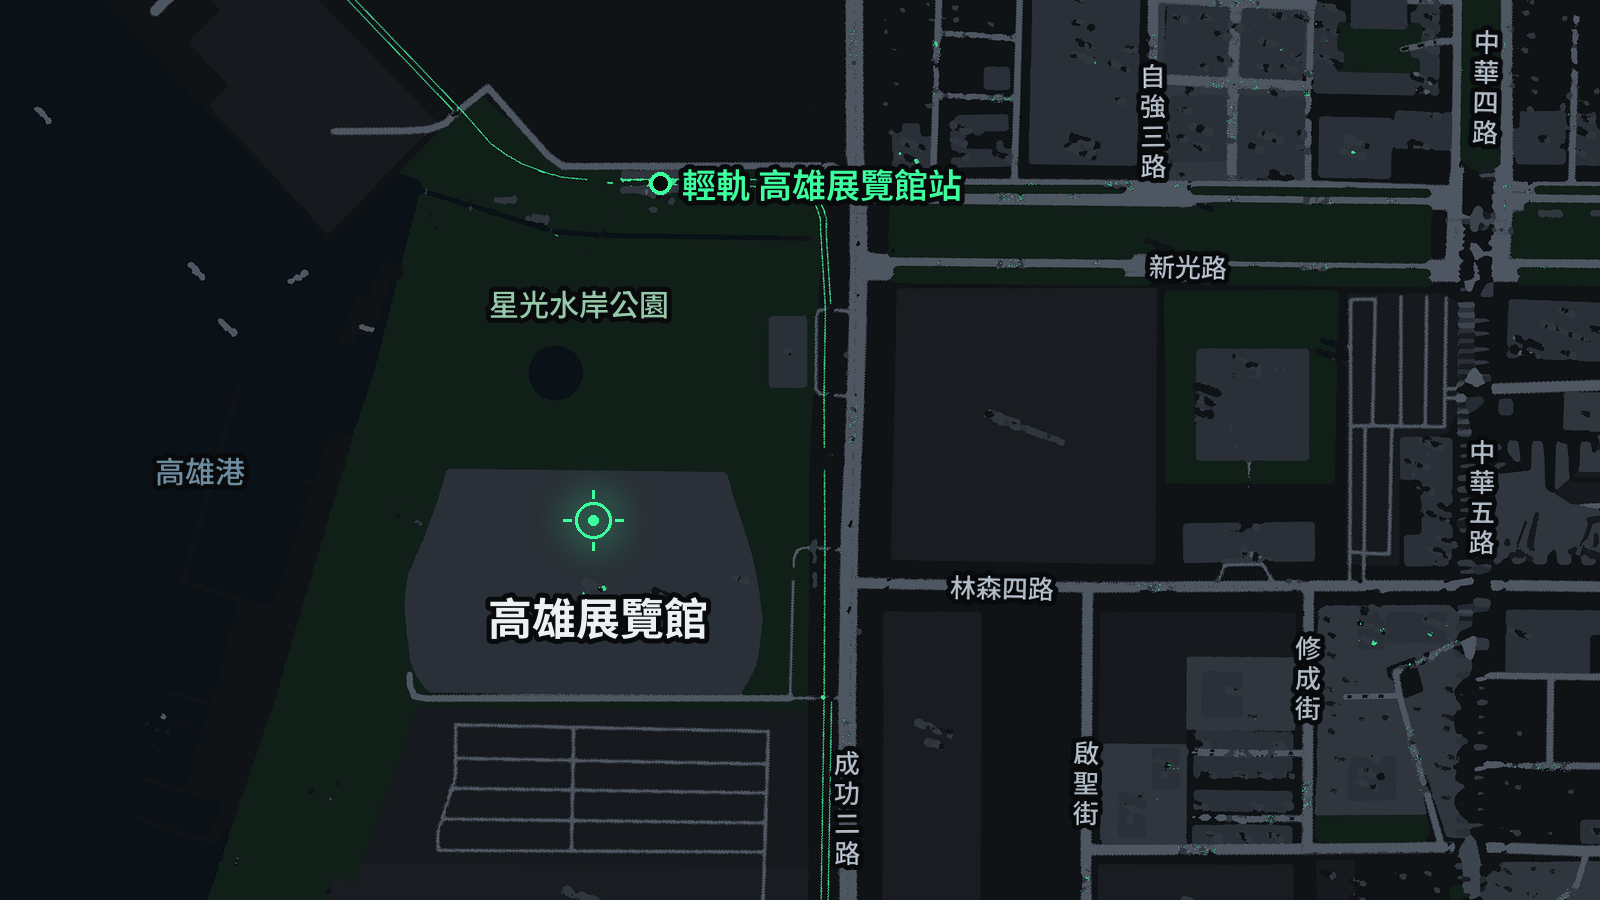
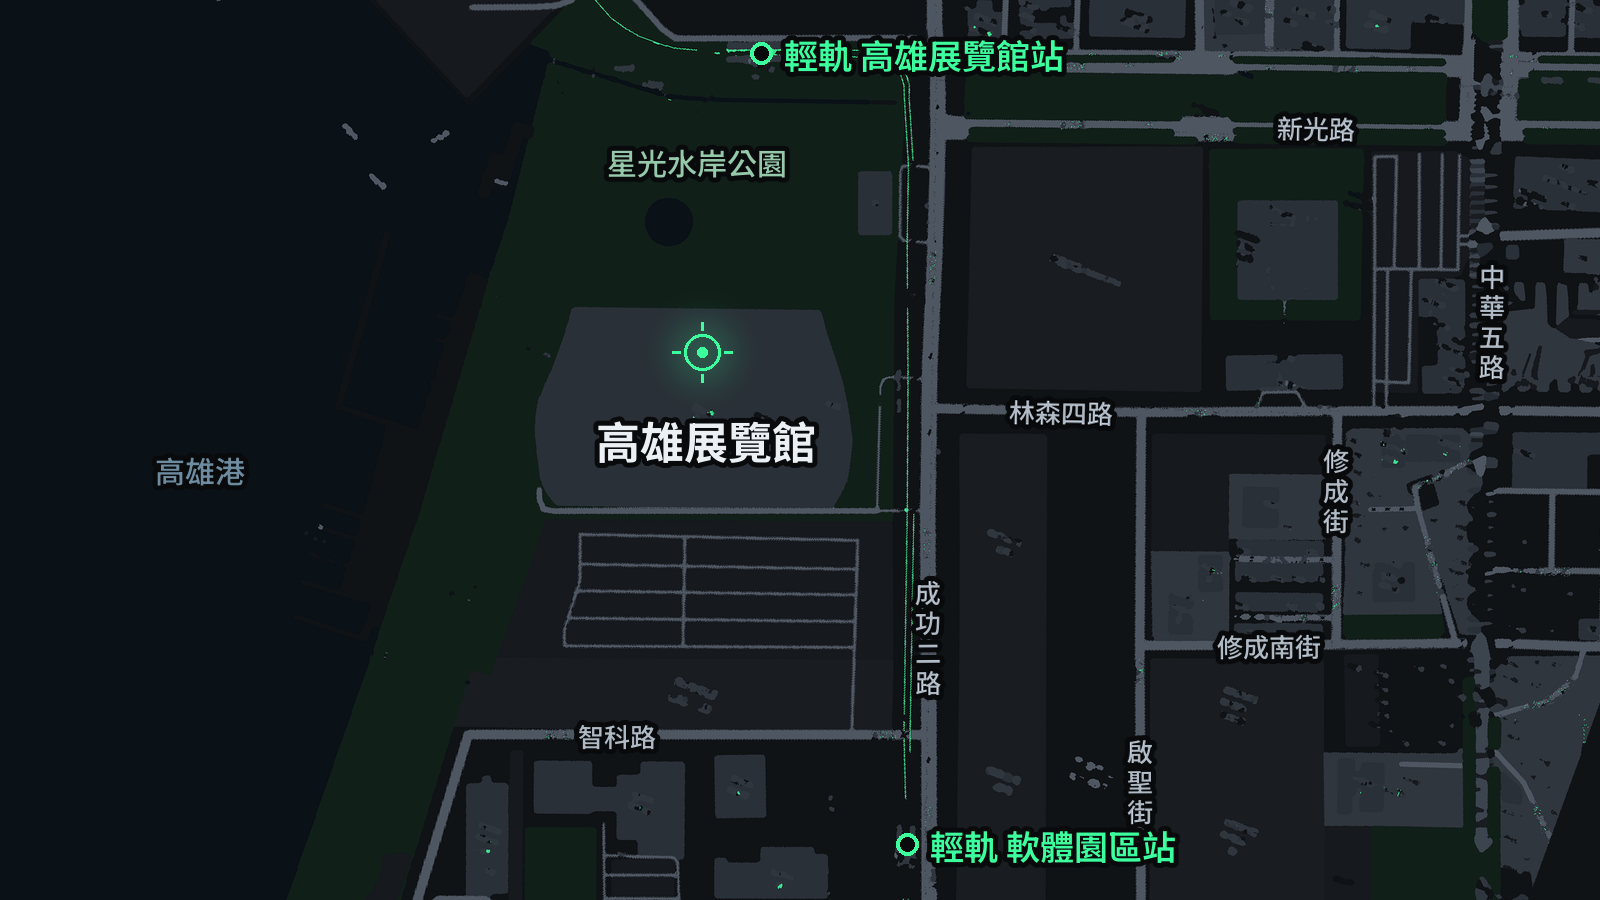
參觀資訊地圖：往南延伸至輕軌軟體園區站
- 地圖同時標示輕軌高雄展覽館站（C8）與軟體園區站（C7）
- 地圖資料標示移到左下角，避免壓到站名

diff --git a/index.html b/index.html
@@ -101,7 +101,7 @@
       <section class="visit section-pad" id="visit" aria-labelledby="visit-title">
         <div class="container visit-grid">
           <div class="visit-heading"><p class="eyebrow eyebrow-dark" lang="en">VISIT</p><h2 id="visit-title">參觀資訊</h2><p class="section-subtitle">來現場，遇見創意的各種樣子。</p><p class="section-subtitle section-subtitle-sm">以下為 2027 年展覽資訊。</p></div>
-          <a class="visit-map" href="https://www.google.com/maps/search/?api=1&amp;query=%E9%AB%98%E9%9B%84%E5%B1%95%E8%A6%BD%E9%A4%A8%E5%8C%97%E9%A4%A8" target="_blank" rel="noopener noreferrer"><picture><source type="image/webp" srcset="vgw_website_assets/1_home_hero_and_announcements/web/venue_map-800.webp 800w, vgw_website_assets/1_home_hero_and_announcements/web/venue_map-1600.webp 1600w" sizes="(max-width: 650px) 100vw, 600px"><img src="vgw_website_assets/1_home_hero_and_announcements/venue_map_1600x900.png" width="1600" height="900" alt="高雄展覽館周邊地圖，標示展覽館、輕軌高雄展覽館站、星光水岸公園及周邊道路" loading="lazy"></picture><span class="visit-map-label"><strong>高雄展覽館北館</strong><span>在 Google 地圖開啟 <span aria-hidden="true">↗</span></span></span><span class="visually-hidden">（站外連結，另開新視窗）</span><small class="visit-map-credit">地圖資料 © OpenStreetMap 貢獻者</small></a>
+          <a class="visit-map" href="https://www.google.com/maps/search/?api=1&amp;query=%E9%AB%98%E9%9B%84%E5%B1%95%E8%A6%BD%E9%A4%A8%E5%8C%97%E9%A4%A8" target="_blank" rel="noopener noreferrer"><picture><source type="image/webp" srcset="vgw_website_assets/1_home_hero_and_announcements/web/venue_map-800.webp 800w, vgw_website_assets/1_home_hero_and_announcements/web/venue_map-1600.webp 1600w" sizes="(max-width: 650px) 100vw, 600px"><img src="vgw_website_assets/1_home_hero_and_announcements/venue_map_1600x900.png" width="1600" height="900" alt="高雄展覽館周邊地圖，標示展覽館、輕軌高雄展覽館站與軟體園區站、星光水岸公園及周邊道路" loading="lazy"></picture><span class="visit-map-label"><strong>高雄展覽館北館</strong><span>在 Google 地圖開啟 <span aria-hidden="true">↗</span></span></span><span class="visually-hidden">（站外連結，另開新視窗）</span><small class="visit-map-credit">地圖資料 © OpenStreetMap 貢獻者</small></a>
           <div class="visit-content">
             <dl class="visit-facts"><div><dt>展覽日期</dt><dd>2027 年 5 月 13 日（四）至 5 月 15 日（六）</dd></div><div><dt>開放時間</dt><dd>每日 10:00–18:00</dd></div><div><dt>展覽地點</dt><dd>高雄展覽館北館<br>高雄市前鎮區成功二路 39 號 <a class="map-link" href="https://www.google.com/maps/search/?api=1&amp;query=%E9%AB%98%E9%9B%84%E5%B1%95%E8%A6%BD%E9%A4%A8%E5%8C%97%E9%A4%A8" target="_blank" rel="noopener noreferrer">在 Google 地圖開啟 <span aria-hidden="true">↗</span><span class="visually-hidden">（站外連結，另開新視窗）</span></a></dd></div><div><dt>參觀費用</dt><dd>免費參觀</dd></div></dl>
           </div>

diff --git a/styles.css b/styles.css
@@ -878,7 +878,7 @@ main .article-aside-title::after { display: none; }
 .visit-map-label { position: absolute; left: 16px; top: 16px; display: grid; gap: 4px; padding: 12px 16px; background: rgba(5,5,5,.86); border-left: 2px solid var(--neon); }
 .visit-map-label strong { font-size: 1rem; }
 .visit-map-label > span { color: var(--neon); font-size: .85rem; font-weight: 700; }
-.visit-map-credit { position: absolute; right: 8px; bottom: 6px; color: #9aa4ae; font-size: .7rem; }
+.visit-map-credit { position: absolute; left: 10px; bottom: 6px; color: #9aa4ae; font-size: .7rem; }
 @media (max-width: 650px) {
   .visit-map { min-height: 0; align-self: start; }
   .visit-grid > .visit-highlights ul { grid-template-columns: 1fr; }
